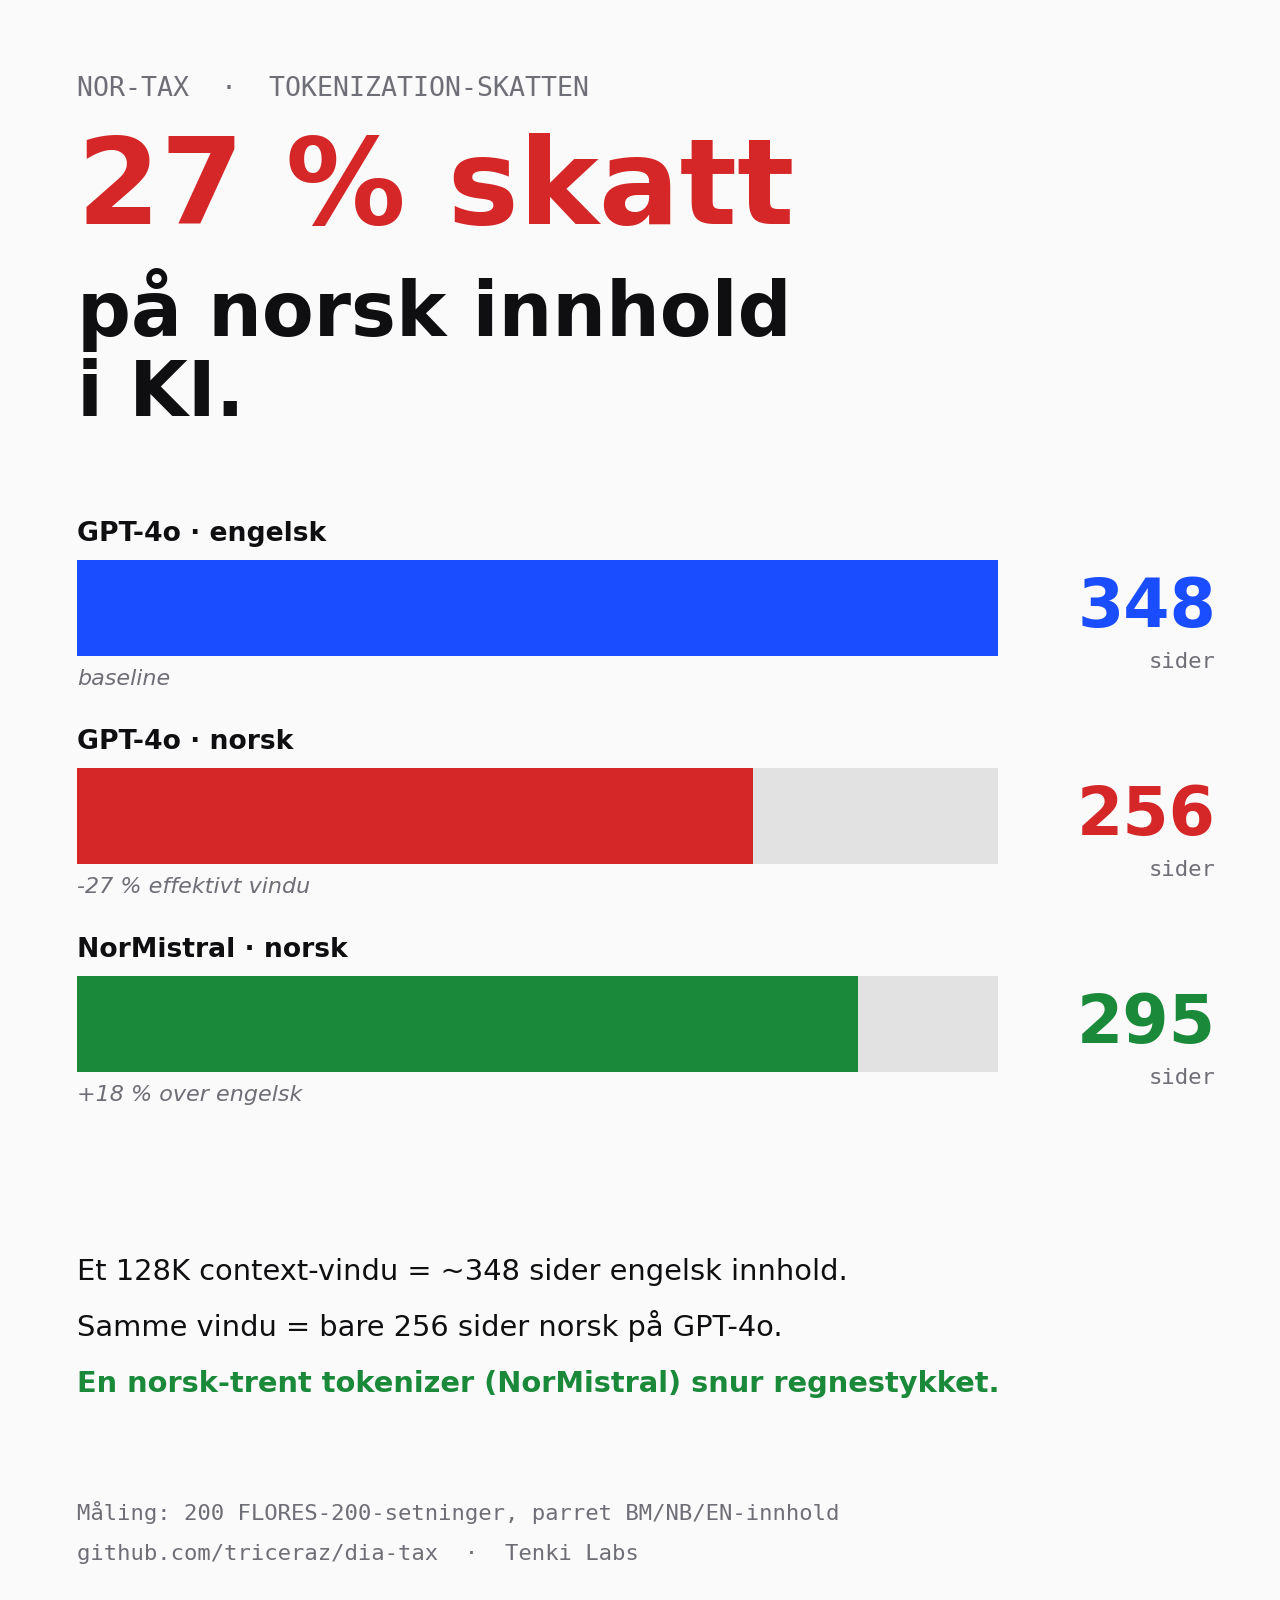
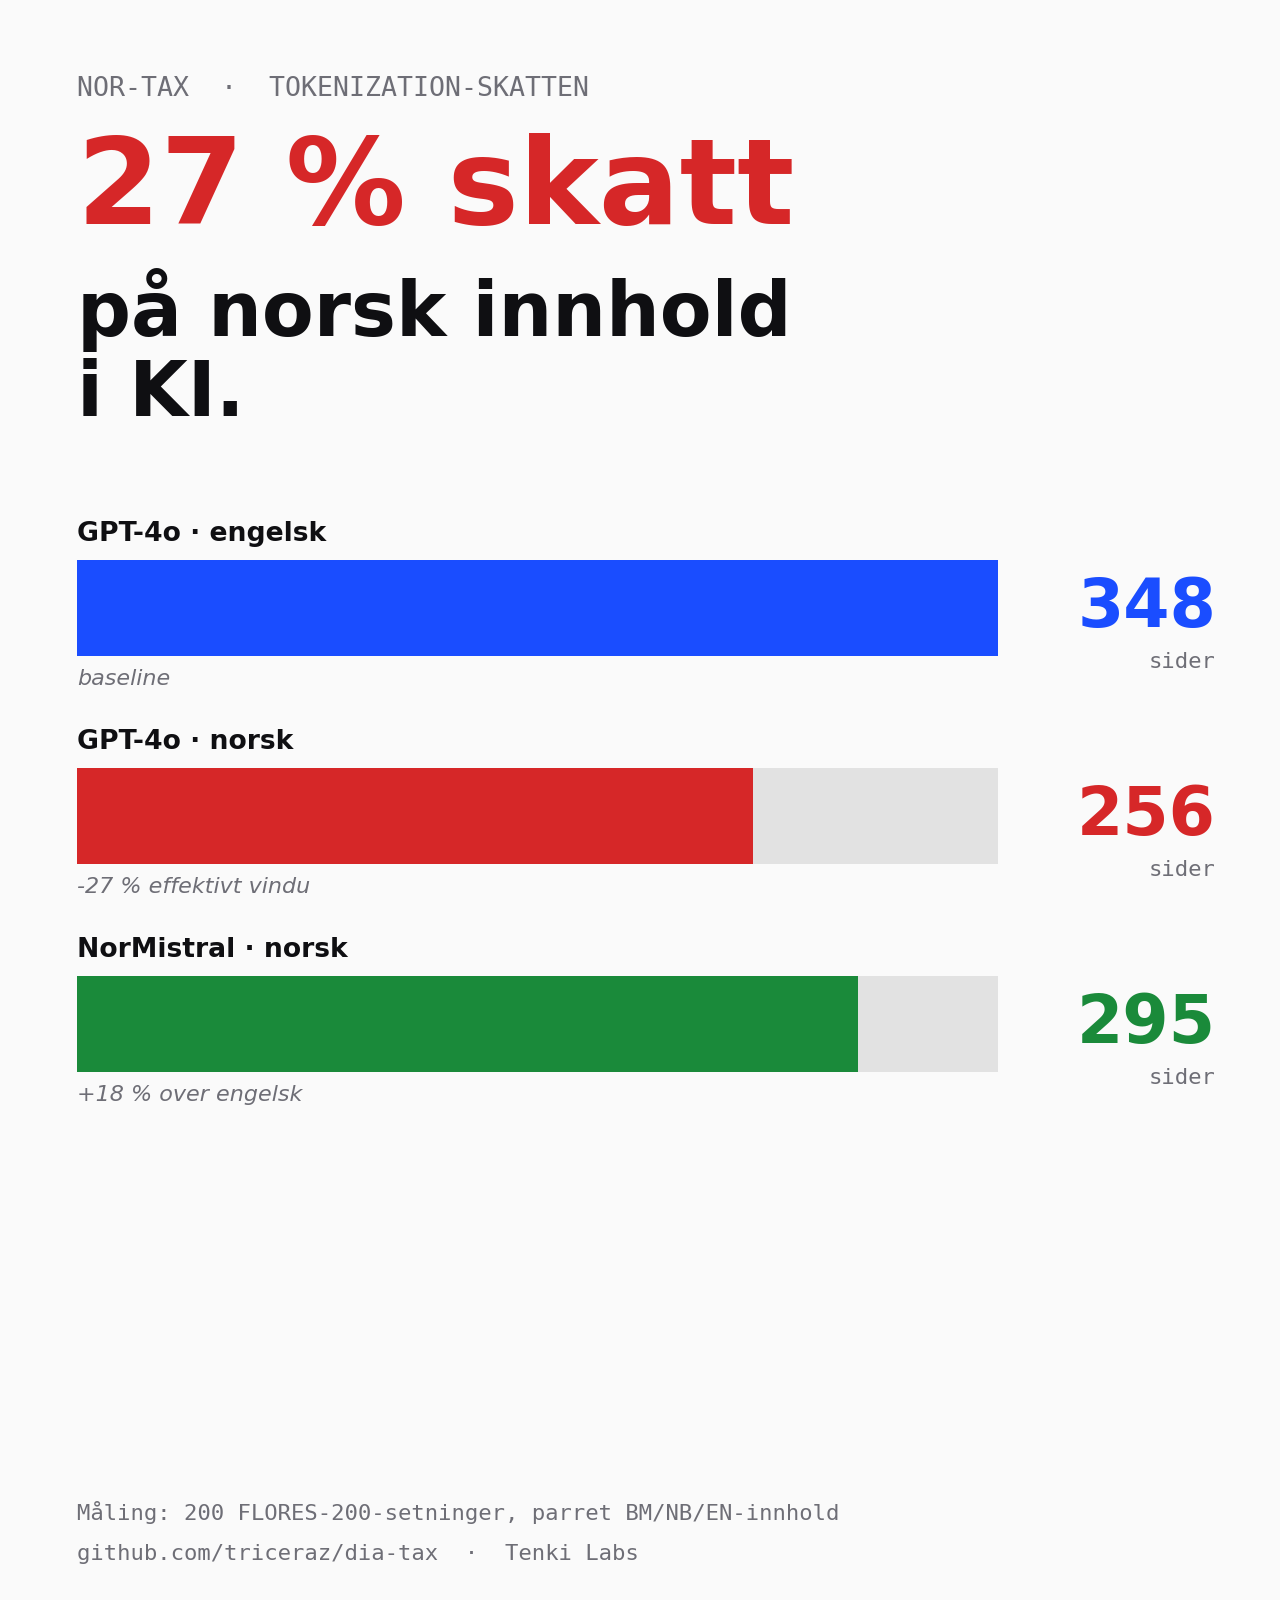
linkedin: fjern forklaringstekst under bars for renere look

Changed region(s): [[0.0625, 0.7812, 0.7812, 0.875]]

diff --git a/src/05_linkedin_figure.py b/src/05_linkedin_figure.py
@@ -165,28 +165,6 @@ def main() -> None:
         )
 
     # =========================================================
-    # MIDDLE-BOTTOM — Explanation
-    # =========================================================
-    ax.text(
-        0.06, 0.20,
-        "Et 128K context-vindu = ~348 sider engelsk innhold.",
-        fontsize=13, color=COL_INK, fontweight=500,
-        family="DejaVu Sans",
-    )
-    ax.text(
-        0.06, 0.165,
-        "Samme vindu = bare 256 sider norsk på GPT-4o.",
-        fontsize=13, color=COL_INK, fontweight=500,
-        family="DejaVu Sans",
-    )
-    ax.text(
-        0.06, 0.13,
-        "En norsk-trent tokenizer (NorMistral) snur regnestykket.",
-        fontsize=13, color=COL_GREEN, fontweight=600,
-        family="DejaVu Sans",
-    )
-
-    # =========================================================
     # BOTTOM — Attribution
     # =========================================================
     ax.text(
